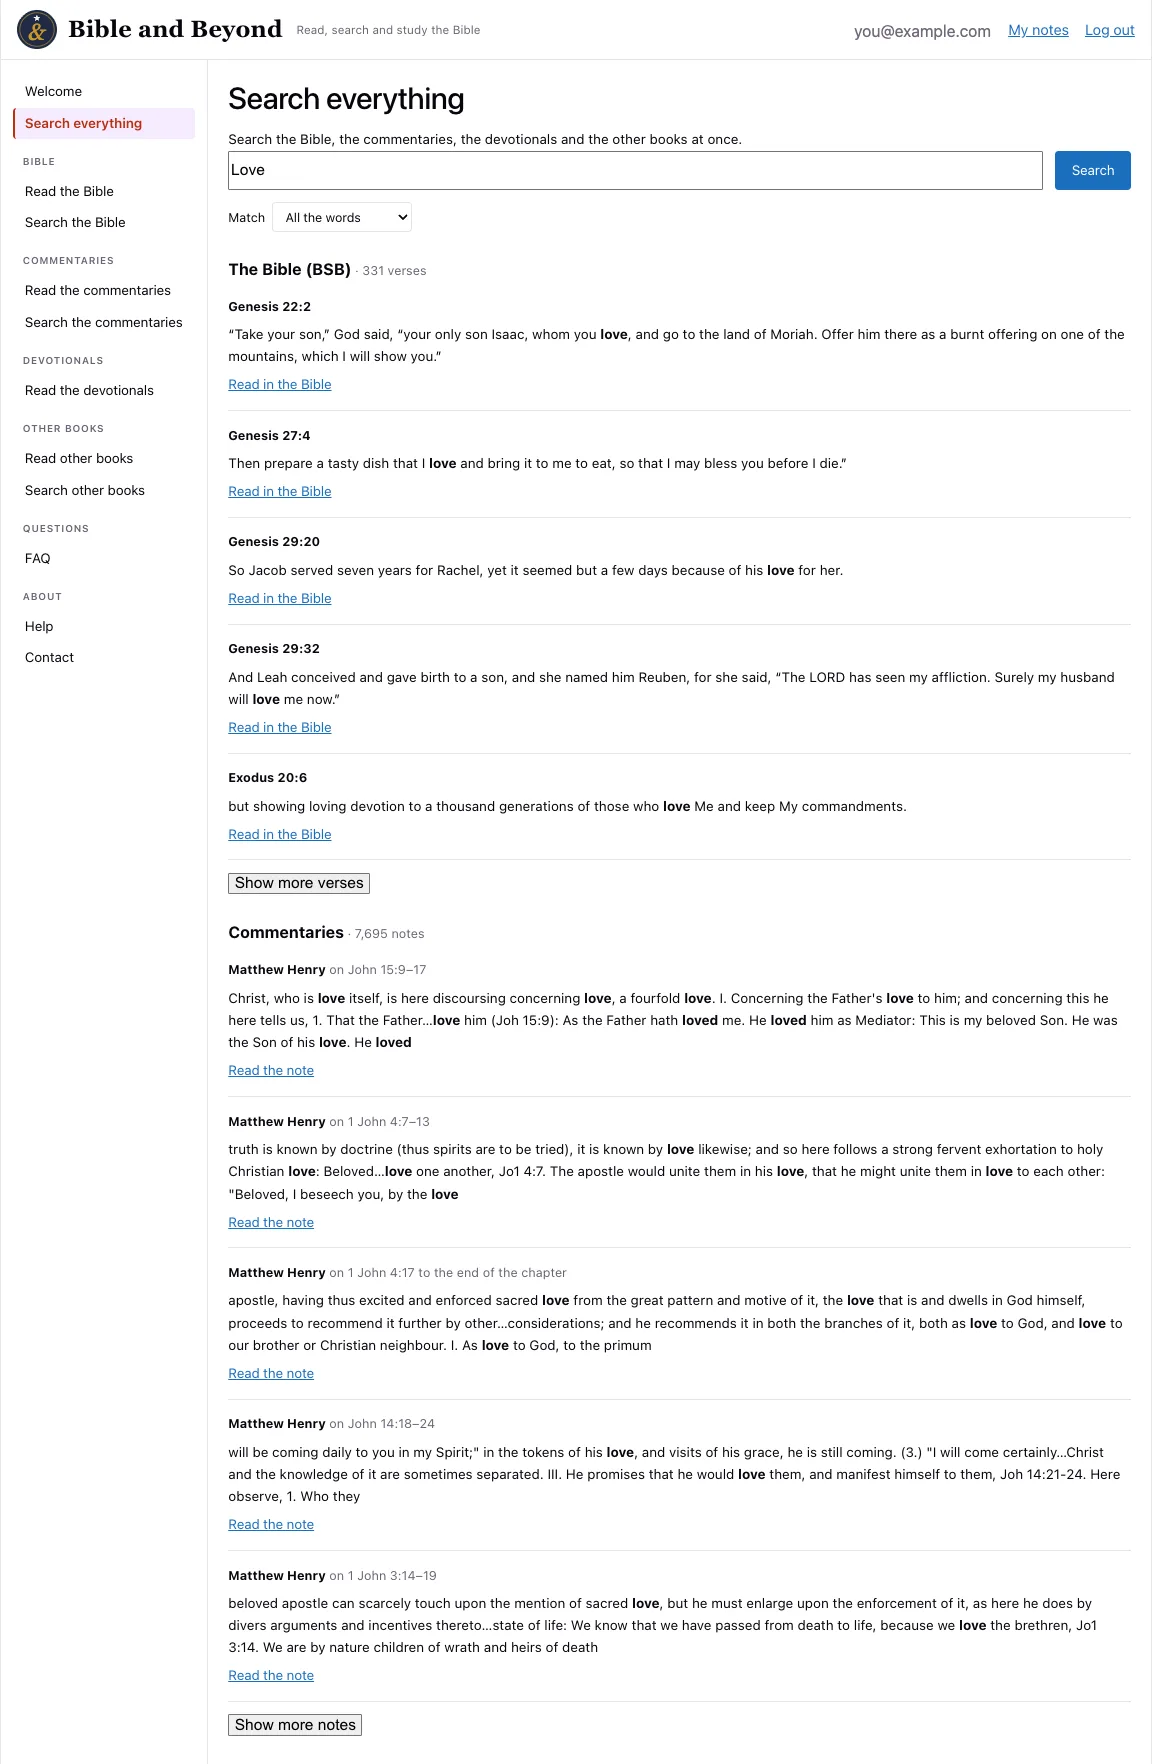
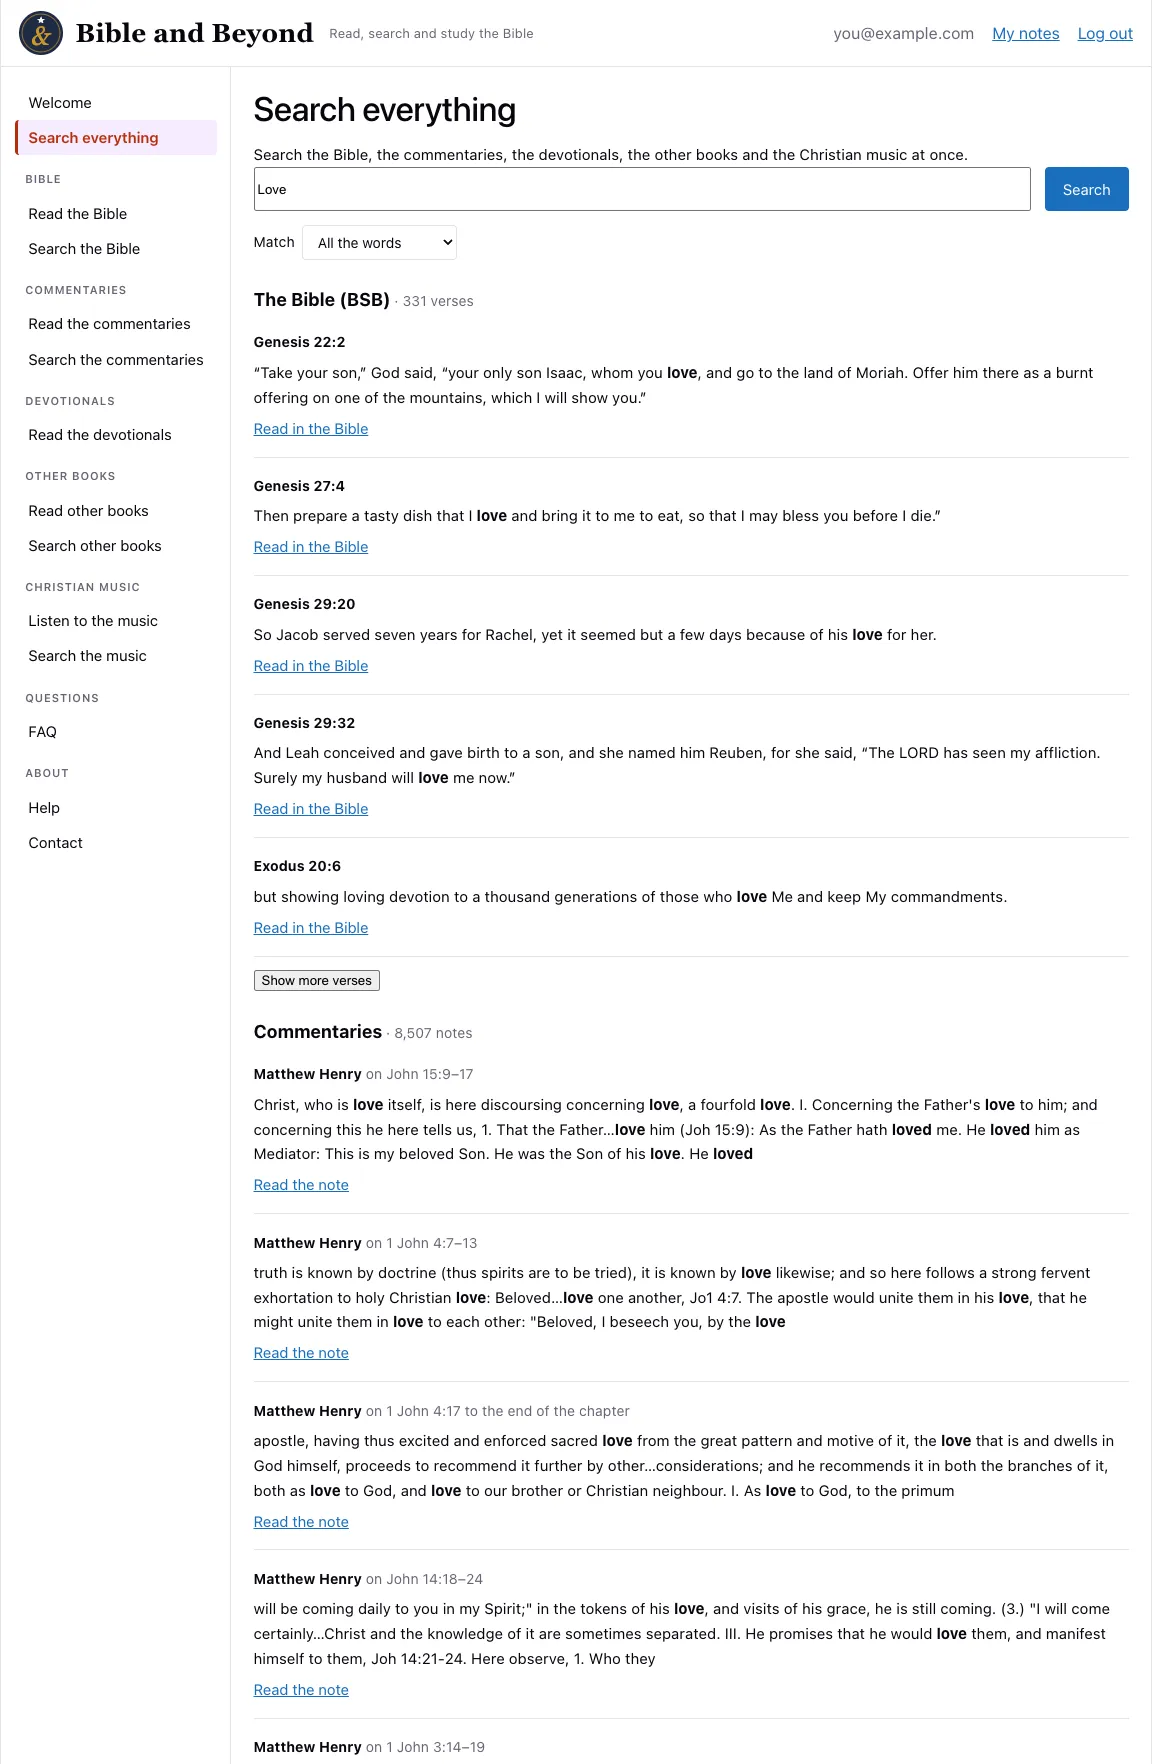
Retake the welcome and Search everything screenshots
The welcome picture now shows the Other books and music cards with their
counts. The line above Search everything now names the Christian music,
which the search has covered since it was added there.

diff --git a/frontend/src/WelcomeSearch.tsx b/frontend/src/WelcomeSearch.tsx
@@ -191,7 +191,7 @@ function WelcomeSearch({ isHidden, isPage, onOpen, onOpenSong }: WelcomeSearchPr
       aria-labelledby={`${queryId}-heading`}
     >
       {isPage ? <h1 id={`${queryId}-heading`}>Search everything</h1> : <h2 id={`${queryId}-heading`}>Search everything</h2>}
-      <p>Search the Bible, the commentaries, the devotionals and the other books at once.</p>
+      <p>Search the Bible, the commentaries, the devotionals, the other books and the Christian music at once.</p>
       <form className="book-search-form" onSubmit={handleSubmit}>
         <label htmlFor={queryId} className="visually-hidden">
           Words to search for
